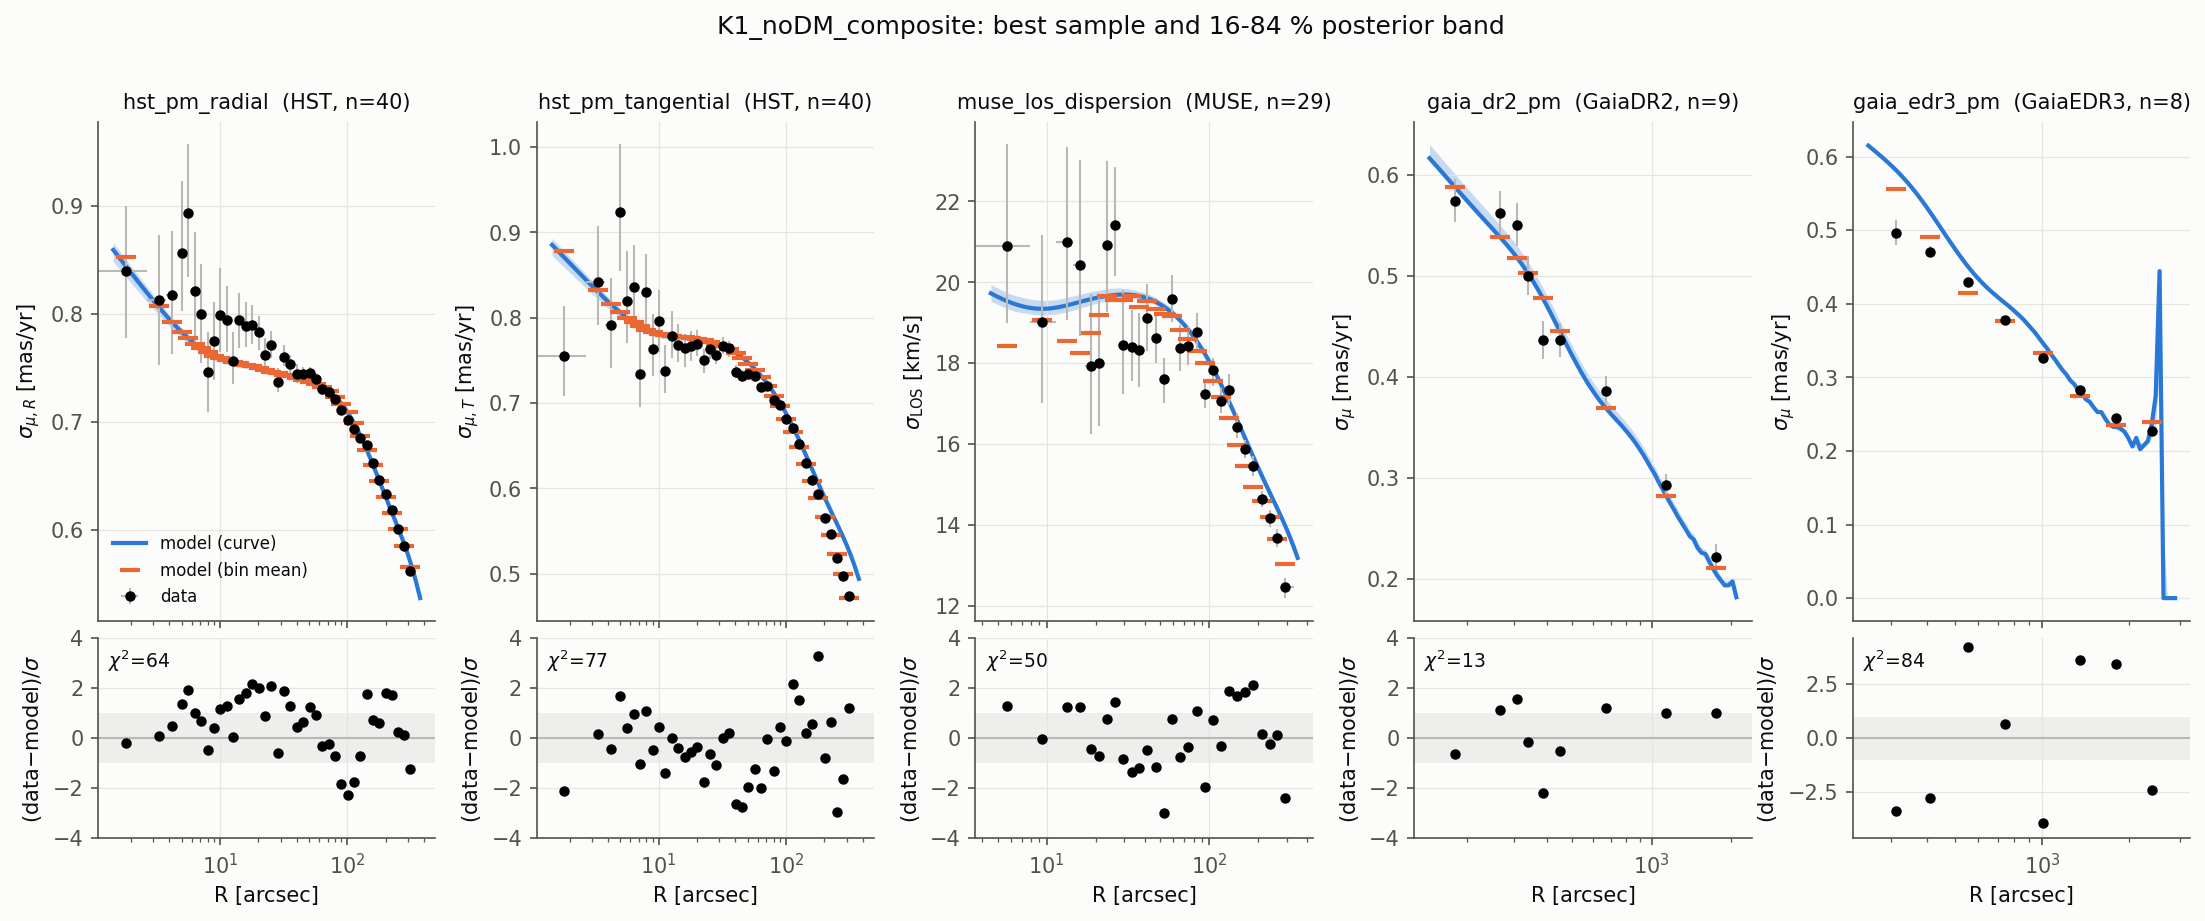
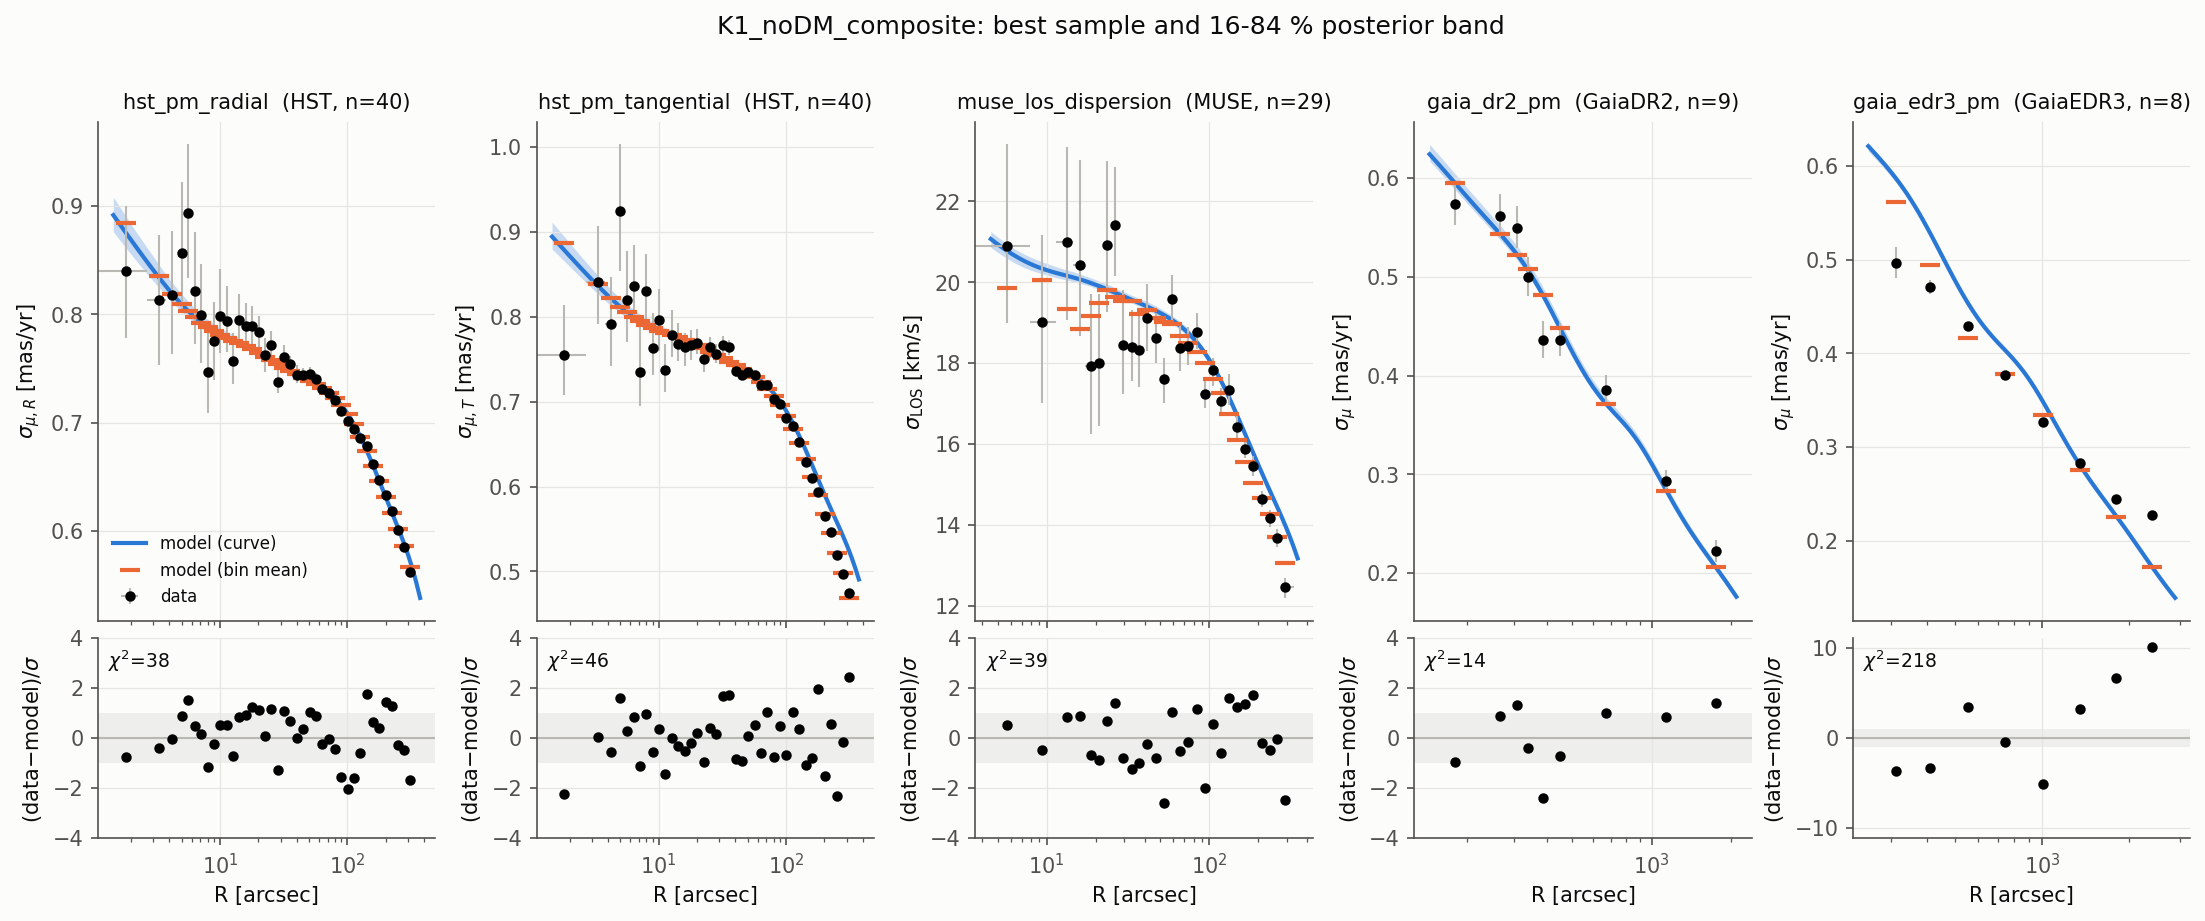
Journal: K1 composite full-data posterior; comparison report and figures for the three K1 runs

diff --git a/JOURNAL.md b/JOURNAL.md
@@ -1279,3 +1279,29 @@ Trager-tracer posterior never touched the far-out artefact, and two independent 
 runs of the same 11-D problem reproduce ln Z to 0.5 — the run-to-run scatter to keep in
 mind when reading Δ ln Z between families. `K1_noDM_trager_v2` is the canonical Trager
 run from here; `K1_noDM` is kept as the reproducibility twin.
+
+## 2026-09-18 — K1 composite (full data): the no-DM reference posterior
+
+1.62M calls / 136 min. **ln Z = 134.91 ± 0.47; χ² 355 / 126**, of which **Gaia EDR3 alone
+218 / 8**; the rest is the clean fit of the no-EDR3 run (HST R 38/40, T 46/40, MUSE 39/29,
+DR2 14/9). Parameters are the no-EDR3 ones to within their intervals: M★ = 2.81e6 [2.55,
+2.99], M_rem = 3.9e5 [2.7, 6.0] at 4.2 pc, **M• = 3.8e4 [3.4, 4.2]**, β₀ = −0.046,
+β∞ = 0.233, r_β = 3.3 pc, s_MUSE = 0.984, s_DR2 = 0.950, **s_EDR3 = 1.065 ± 0.007**,
+D = 5.432 [5.387, 5.479].
+
+So the EDR3 profile does not move the no-DM solution — it cannot be accommodated by it. The
+K1 family has one lever for the outskirts (β∞ and the remnant sphere) and it is already used
+by the HST outer bins; the EDR3 points at 1300–2400″ demand more dispersion than any K1
+model gives at those radii (data 0.23–0.28 mas/yr against model 0.17–0.24 after the
+rotation term), and the nuisance scale pinned at 1.065 says the same thing over the whole
+300–2400″ range. Tracer comparison at equal physics: **Δ ln Z (composite − Trager) =
++47.7 ± 0.6** — the composite tracer is decisively preferred, a real result this time
+(both runs on the fixed solver, reproducibility 0.5).
+
+Launched the **false-positive injection**: mock data drawn from this run's best sample
+(M★ = 2.76e6, M_rem = 5.5e5 at 4.7 pc, M• = 4.0e4, β₀ = −0.045, β∞ = 0.23, real bins and
+errors, seed 7) fitted with K2-cored. If K2 reports a non-zero M_DM(<100 pc) here, the
+real-data K2 preference is not to be believed at that level. K2-cored and K2-NFW on the real
+data are in the bulk of their posteriors (ln Z 171 and 163 and rising against K1's 134.9),
+K2-cored-noEDR3 has started. Report: `results/fits/comparison.md`; figures
+`plots/fit_posterior_profiles.png`, `plots/fit_K1_noDM_composite_posterior_profiles.png`.
